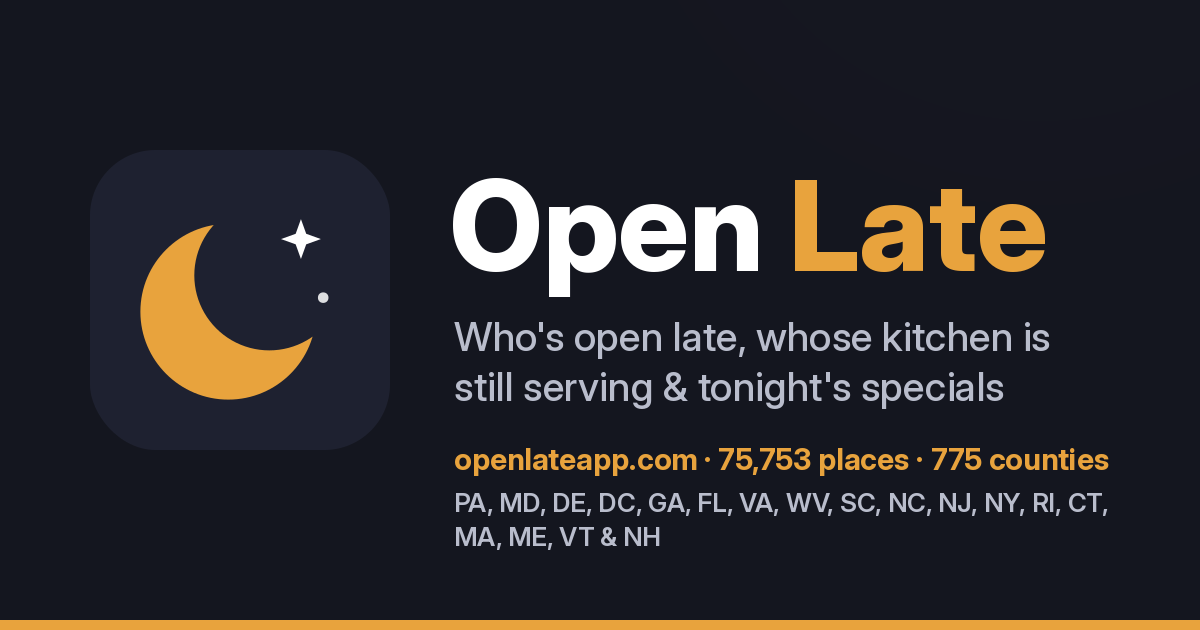
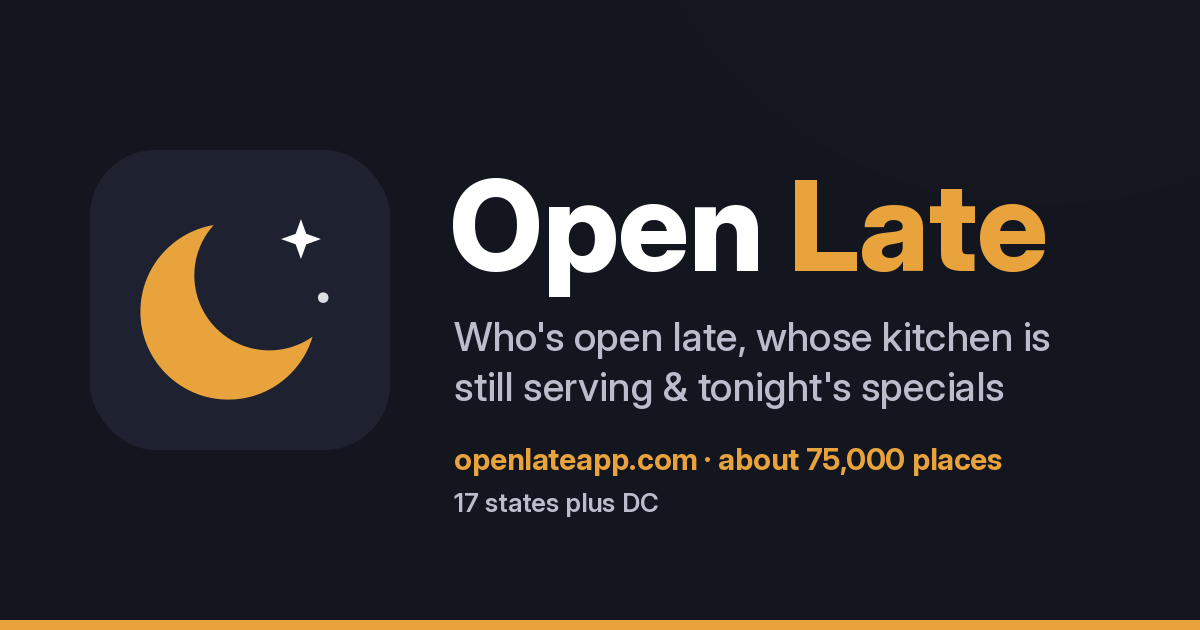
v260 soft OG about 75k / 17 states+DC; cache-bust og-image?v=260; SEO st filter

Changed region(s): [[0.37, 0.7841, 0.925, 0.8746], [0.5858, 0.6937, 0.925, 0.754]]

diff --git a/index.html b/index.html
@@ -29,14 +29,14 @@
 <meta property="og:title" content="Open Late · about 75,000 places across 17 states plus DC">
 <meta property="og:description" content="About 75,000 late-night restaurants and bars across 17 states plus DC — who's open now, kitchen hours, happy hours and specials.">
 <meta property="og:url" content="https://openlateapp.com/">
-<meta property="og:image" content="https://openlateapp.com/icons/og-image.png">
+<meta property="og:image" content="https://openlateapp.com/icons/og-image.png?v=260">
 <meta property="og:image:width" content="1200">
 <meta property="og:image:height" content="630">
 <meta property="og:image:alt" content="Open Late: a winking moon raising a beer over a skyline, with OPEN LATE arched across the top. Who's open late, whose kitchen is still serving and tonight's specials, across Pennsylvania, Maryland, Delaware, DC, Georgia, Florida, Virginia, West Virginia, South Carolina, North Carolina, New Jersey, New York, Rhode Island, Connecticut, Massachusetts, Maine, Vermont and New Hampshire.">
 <meta name="twitter:card" content="summary_large_image">
 <meta name="twitter:title" content="Open Late · about 75,000 places across 17 states plus DC">
 <meta name="twitter:description" content="About 75,000 late-night restaurants and bars across 17 states plus DC — who's open now, kitchen hours, happy hours and specials.">
-<meta name="twitter:image" content="https://openlateapp.com/icons/og-image.png">
+<meta name="twitter:image" content="https://openlateapp.com/icons/og-image.png?v=260">
 <script type="application/ld+json">
 {"@context":"https://schema.org","@type":"WebSite","name":"Open Late","url":"https://openlateapp.com/","description":"About 75,000 late-night restaurants and bars across 17 states plus DC: hours, kitchen hours, happy hours and specials.","inLanguage":"en-US","potentialAction":{"@type":"SearchAction","target":{"@type":"EntryPoint","urlTemplate":"https://openlateapp.com/?q={search_term_string}"},"query-input":"required name=search_term_string"}}
 </script>
@@ -49,7 +49,7 @@
 <meta name="mobile-web-app-capable" content="yes">
 <meta name="apple-mobile-web-app-status-bar-style" content="black-translucent">
 <meta name="apple-mobile-web-app-title" content="Open Late">
-<link rel="stylesheet" href="styles.css?v=259">
+<link rel="stylesheet" href="styles.css?v=260">
 <script src="config.js"></script>
 </head>
 <body>
@@ -235,6 +235,6 @@
     <p class="small">Sent to the Open Late editor by email through FormSubmit.co. We don't publish your name or email.</p>
   </form>
 </dialog>
-<script src="app.js?v=259" defer></script>
+<script src="app.js?v=260" defer></script>
 </body>
 </html>

diff --git a/sw.js b/sw.js
@@ -1,6 +1,6 @@
 // Open Late service worker: app shell + data/index.json precached; County files (data/county/<id>.json) are network-first and cached when opened, for offline.
-const VERSION = "open-late-v259";
-const SHELL = ["./", "index.html", "styles.css?v=259", "app.js?v=259", "config.js", "manifest.webmanifest", "icons/icon.svg", "icons/logo.png", "icons/icon-192.png", "favicon.ico", "icons/icon-512.png", "data/index.json"];
+const VERSION = "open-late-v260";
+const SHELL = ["./", "index.html", "styles.css?v=260", "app.js?v=260", "config.js", "manifest.webmanifest", "icons/icon.svg", "icons/logo.png", "icons/icon-192.png", "favicon.ico", "icons/icon-512.png", "data/index.json"];
 self.addEventListener("install", (e) => { e.waitUntil(caches.open(VERSION).then((c) => c.addAll(SHELL)).then(() => self.skipWaiting())); });
 self.addEventListener("activate", (e) => { e.waitUntil(caches.keys().then((ks) => Promise.all(ks.filter((k) => k !== VERSION).map((k) => caches.delete(k)))).then(() => self.clients.claim())); });
 self.addEventListener("fetch", (e) => {

diff --git a/tools/build_og.py b/tools/build_og.py
@@ -72,16 +72,15 @@ def home_image(n_places, n_counties, where="PA"):
     if where == "PA":
         s = f"openlateapp.com · {n_places:,} places · all {n_counties} PA counties"
         d.text((x + 4, 448), s, font=fit(d, s, 700, 30, 696, 22), fill=AMBER)
-    else:  # many states: URL + counts on one line, states wrapped below so nothing is clipped at the right edge
-        s = f"openlateapp.com · {n_places:,} places · {n_counties} counties"
+    else:  # soft share preview: never show exact place/county counts (Jon: "about 75,000")
+        approx = max(1000, (int(n_places) // 1000) * 1000)
+        s = f"openlateapp.com · about {approx:,} places"
         d.text((x + 4, 440), s, font=fit(d, s, 700, 30, 696, 22), fill=AMBER)
-        f3 = font(26, 600); lines, cur = [], ""
-        for w_ in where.split(", "):
-            t = (cur + ", " + w_) if cur else w_
-            if d.textlength(t, font=f3) > 696 and cur: lines.append(cur + ","); cur = w_
-            else: cur = t
-        lines.append(cur)
-        for i, ln in enumerate(lines[:3]): d.text((x + 4, 486 + i * 34), ln, font=f3, fill=MUTED)
+        ids = [x.strip() for x in where.replace(" & ", ", ").replace(" and ", ", ").split(",") if x.strip()]
+        n_states = len([i for i in ids if i.upper() != "DC"])
+        has_dc = any(i.upper() == "DC" for i in ids)
+        soft = f"{n_states} states plus DC" if has_dc else (f"{n_states} states" if n_states else where)
+        d.text((x + 4, 486), soft, font=font(26, 600), fill=MUTED)
     return im
 
 def county_image(name, n_places, n_cities, n_late, n_deals, title=None, url=None):

diff --git a/tools/build_seo.py b/tools/build_seo.py
@@ -172,7 +172,7 @@ for c in counties:
 # counties index
 tot = sum(c["places"] for c in counties)
 # region wording comes from the States that have Counties, in the picker's order (data/cities.json "states"), so a new State needs no edit here
-_sts = [s for s in idx.get("states") or [{"id": "PA", "name": "Pennsylvania"}] if any((c.get("pickerState") or c.get("state") or "PA") == s["id"] for c in counties)]
+_sts = [s for s in idx.get("states") or [{"id": "PA", "name": "Pennsylvania"}] if any((c.get("pickerState") or c.get("state") or c.get("st") or "PA") == s["id"] for c in counties)]
 def _join(xs, last): return xs[0] if len(xs) == 1 else ", ".join(xs[:-1]) + f" {last} " + xs[-1]
 REG = "Pennsylvania" if len(_sts) == 1 else _join([("DC" if s["id"] == "DC" else s["name"]) for s in _sts], "&")
 REGS = "all 67 Pennsylvania counties" if REG == "Pennsylvania" else _join([s["name"] for s in _sts], "and")
@@ -184,7 +184,7 @@ body = [f'<h1>Open late across {e(REG)}, by County</h1>',
 ST_NAMES = [(s["id"], s["name"]) for s in json.load(open("data/index.json")).get("states") or []] or [("PA", "Pennsylvania")]
 multi = REG != "Pennsylvania"
 for st, stn in ST_NAMES:
-    cs = [c for c in counties if (c.get("pickerState") or c.get("state") or "PA") == st]
+    cs = [c for c in counties if (c.get("pickerState") or c.get("state") or c.get("st") or "PA") == st]
     if not cs: continue
     if multi: body.append(f'<h2>{e(stn)}</h2>')
     body.append('<ul class="lp-cities lp-counties">')
